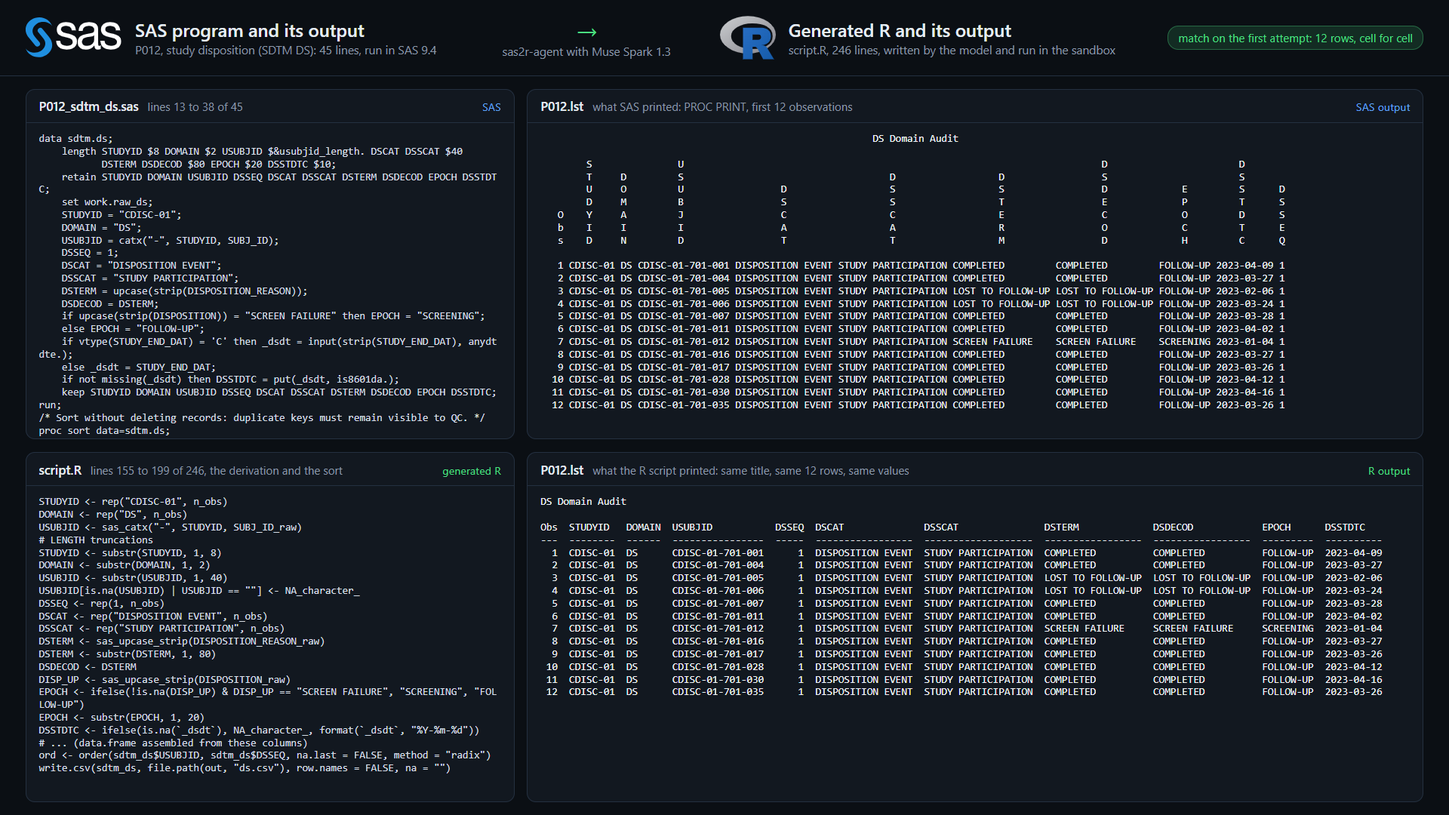
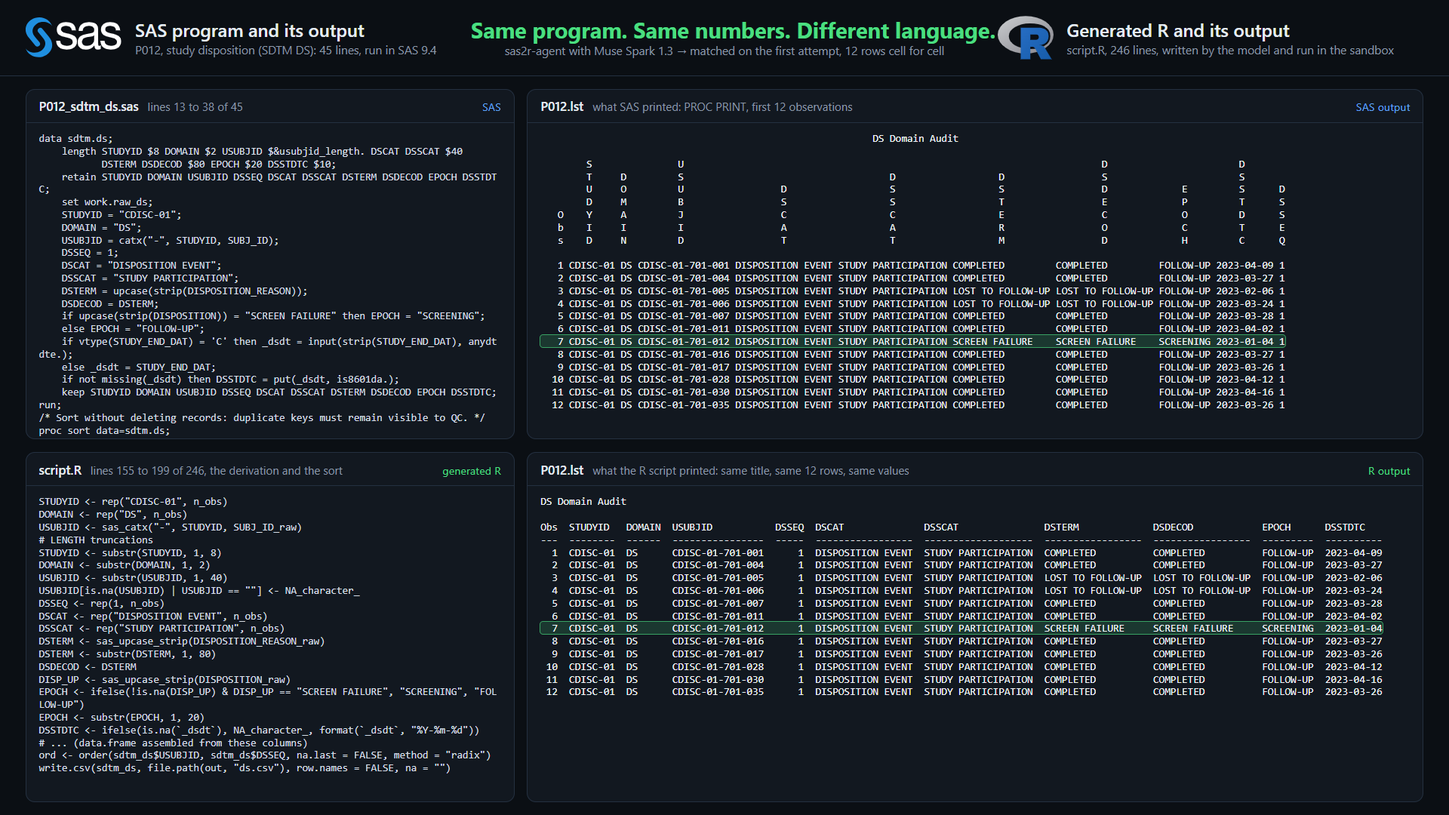
Review fixes: per-program cost in run output, 'passed every check' wording, opening overlay, P036 repair still, end card
Claude-Session: https://claude.ai/code/session_01KvXKbV2yUgGbFLyG5GdHhj

Changed region(s): [[0.3125, 0.0, 1.0, 0.0917], [0.375, 0.7639, 0.9688, 0.7944], [0.375, 0.3972, 0.9062, 0.4278]]

diff --git a/docs/demo_opening.html b/docs/demo_opening.html
@@ -4,7 +4,9 @@
 :root{--bg:#0b0f14;--panel:#121820;--line:#243040;--ink:#e6edf3;--mute:#8b98a8;--green:#4ade80;--amber:#fbbf24;--blue:#60a5fa}
 *{box-sizing:border-box}html,body{margin:0;width:1600px;height:900px;overflow:hidden;background:var(--bg);color:var(--ink);font-family:"Segoe UI",Inter,system-ui,sans-serif}
 .top{height:84px;display:flex;align-items:center;gap:22px;padding:0 28px;border-bottom:1px solid var(--line)}
-.side{display:flex;align-items:center;gap:14px;width:520px}.mid{min-width:250px;white-space:nowrap}.side b{font-size:20px;font-weight:600}.side span{display:block;font-size:13px;color:var(--mute)}
+.side{display:flex;align-items:center;gap:14px;width:470px}.mid{min-width:560px;white-space:nowrap}
+.mid .big{font-size:24px;font-weight:700;color:var(--green);line-height:1.15}
+mark{background:rgba(74,222,128,.16);color:#f0f4f8;outline:1.5px solid rgba(74,222,128,.7);border-radius:3px}.side b{font-size:20px;font-weight:600}.side span{display:block;font-size:13px;color:var(--mute)}
 .logo.sas{height:44px;width:auto}.logo.r{height:48px;width:auto}
 .mid{flex:1;text-align:center}.mid .arrow{font-size:30px;color:var(--green);line-height:1}.mid .who{font-size:13px;color:var(--mute)}
 .pill{font-size:12.5px;padding:4px 11px;border-radius:12px;background:rgba(74,222,128,.14);color:var(--green);border:1px solid rgba(74,222,128,.35);white-space:nowrap}
@@ -19,9 +21,8 @@ pre{margin:0;padding:10px 14px;font:11.5px/14px Consolas,"Cascadia Mono",monospa
 </style></head><body>
 <div class="top">
   <div class="side"><svg viewBox="0 0 129.25 53.07" class="logo sas"><path fill="#1f8fe0" d="M 18.46875,0 C 16.638866,-0.041377236 14.748438,0.1725 12.8125,0.65625 C 3.86,2.8925 -6.16125,14.40875 4.78125,27.6875 L 11.3125,35.59375 L 13.15625,37.84375 C 14.39375,39.315 16.41875,39.28875 17.90625,38.0625 C 19.40125,36.829998 19.82625,34.80875 18.59375,33.3125 C 18.592173,33.310397 18.071121,32.679752 17.84375,32.40625 L 17.875,32.40625 C 17.402936,31.838361 17.300473,31.743127 16.8125,31.15625 C 14.448752,28.313409 11.75,25.03125 11.75,25.03125 C 6.9987503,19.265 9.11875,12.14125 15.5625,8.09375 C 21.24,4.5275001 31.65875,5.80125 35.25,11.65625 C 32.988202,4.9805465 26.398246,0.17930136 18.46875,0 z M 19.78125,13.9375 C 18.937031,13.90875 18.055625,14.230625 17.3125,14.84375 C 15.815001,16.0775 15.39375,18.10125 16.625,19.59375 C 16.627499,19.597501 16.77625,19.7825 17.03125,20.09375 C 19.863614,23.496657 23.625,28.0625 23.625,28.0625 C 28.3775,33.82875 26.25625,40.92125 19.8125,44.96875 C 14.136251,48.53375 3.71625,47.2575 0.125,41.40625 C 2.90875,49.618751 12.23875,54.9875 22.5625,52.40625 C 31.5175,50.166248 41.53625,38.6825 30.59375,25.40625 L 22.9375,16.15625 L 22.0625,15.0625 C 21.44375,14.326875 20.625469,13.96625 19.78125,13.9375 z"/><path fill="#ffffff" d="M 53.53125,6.3125 C 47.8625,6.3125 41.374998,9.2362506 41.375,16.28125 C 41.375,22.9875 46.708752,24.869999 52,26.15625 C 57.355,27.4425 62.656249,28.187498 62.65625,32.65625 C 62.65625,37.05875 58.121251,37.875002 54.78125,37.875 C 50.3725,37.875 46.218751,36.27125 46.03125,31.125 L 40.6875,31.125 C 41,39.79375 47.161249,42.968749 54.46875,42.96875 C 61.085,42.96875 68.343749,40.27125 68.34375,31.9375 C 68.34375,25.16375 63.041251,23.25625 57.6875,21.96875 C 52.7125,20.6825 47.031249,20.00625 47.03125,15.875 C 47.03125,12.3525 50.75625,11.40625 53.96875,11.40625 C 57.49875,11.40625 61.151251,12.810001 61.53125,17.28125 L 66.875,17.28125 C 66.435,8.74625 60.712498,6.3125001 53.53125,6.3125 z M 84.40625,6.3125 C 77.159998,6.3125001 70.90625,9.3625 70.59375,18.03125 L 75.9375,18.03125 C 76.190003,12.883749 79.5275,11.40625 84.0625,11.40625 C 87.466253,11.40625 91.3125,12.20625 91.3125,17.21875 C 91.312501,21.553749 86.2975,21.155 80.375,22.375 C 74.833751,23.526251 69.34375,25.23 69.34375,33.15625 C 69.343748,40.133748 74.20125,42.96875 80.125,42.96875 C 84.656249,42.968749 88.6025,41.255 91.5625,37.53125 C 91.562499,41.322498 93.3525,42.96875 96.125,42.96875 C 97.823751,42.968749 98.9925,42.60875 99.9375,42 L 99.9375,37.53125 C 99.244997,37.802498 98.7525,37.875 98.3125,37.875 C 96.612501,37.875002 96.625,36.68 96.625,33.96875 L 96.625,15.9375 C 96.624998,7.7424996 90.265,6.3125 84.40625,6.3125 z M 112.40625,6.3125 C 106.7375,6.3125 100.25,9.2362506 100.25,16.28125 C 100.25,22.9875 105.61625,24.869999 110.90625,26.15625 C 116.2625,27.4425 121.5625,28.187498 121.5625,32.65625 C 121.5625,37.05875 117.02625,37.875002 113.6875,37.875 C 109.2775,37.875 105.125,36.27125 104.9375,31.125 L 99.5625,31.125 C 99.87625,39.79375 106.06875,42.968749 113.375,42.96875 C 119.9875,42.96875 127.21875,40.27125 127.21875,31.9375 C 127.21875,25.16375 121.91625,23.25625 116.5625,21.96875 C 111.58875,20.6825 105.9375,20.00625 105.9375,15.875 C 105.9375,12.3525 109.63125,11.40625 112.84375,11.40625 C 116.37,11.40625 120.025,12.810001 120.40625,17.28125 L 125.78125,17.28125 C 125.3425,8.74625 119.59,6.3125001 112.40625,6.3125 z M 91.25,24.0625 L 91.25,29.96875 C 91.25,33.1525 88.36875,37.875 81.3125,37.875 C 78.040002,37.875002 75,36.51375 75,32.71875 C 75.000003,28.452501 78.0375,27.115 81.5625,26.4375 C 85.15375,25.761251 89.1725,25.6875 91.25,24.0625 z"/></svg><div><b>SAS program and its output</b><span>P012, study disposition (SDTM DS): 45 lines, run in SAS 9.4</span></div></div>
-  <div class="mid"><div class="arrow">&#8594;</div><div class="who">sas2r-agent with Muse Spark 1.3</div></div>
+  <div class="mid"><div class="big">Same program. Same numbers. Different language.</div><div class="who">sas2r-agent with Muse Spark 1.3 &#8594; matched on the first attempt, 12 rows cell for cell</div></div>
   <div class="side"><svg viewBox="0 0 724 561" class="logo r"><defs><linearGradient id="g1" x1="0" x2="1" y1="0" y2="1"><stop offset="0" stop-color="#cbced0"/><stop offset="1" stop-color="#84838b"/></linearGradient><linearGradient id="g2" x1="0" x2="1" y1="0" y2="1"><stop offset="0" stop-color="#276dc3"/><stop offset="1" stop-color="#165caa"/></linearGradient></defs><path d="M361.453,485.937 C162.329,485.937 0.906,377.828 0.906,244.469 C0.906,111.109 162.329,3.000 361.453,3.000 C560.578,3.000 722.000,111.109 722.000,244.469 C722.000,377.828 560.578,485.937 361.453,485.937 ZM416.641,97.406 C265.289,97.406 142.594,171.314 142.594,262.484 C142.594,353.654 265.289,427.562 416.641,427.562 C567.992,427.562 679.687,377.033 679.687,262.484 C679.687,147.971 567.992,97.406 416.641,97.406 Z" fill="url(#g1)" fill-rule="evenodd"/><path d="M550.000,377.000 C550.000,377.000 571.822,383.585 584.500,390.000 C588.899,392.226 596.510,396.668 602.000,402.500 C607.378,408.212 610.000,414.000 610.000,414.000 L696.000,559.000 L557.000,559.062 L492.000,437.000 C492.000,437.000 478.690,414.131 470.500,407.500 C463.668,401.969 460.755,400.000 454.000,400.000 C449.298,400.000 420.974,400.000 420.974,400.000 L421.000,558.974 L298.000,559.026 L298.000,152.938 L545.000,152.938 C545.000,152.938 657.500,154.967 657.500,262.000 C657.500,369.033 550.000,377.000 550.000,377.000 ZM496.500,241.024 L422.037,240.976 L422.000,310.026 L496.500,310.002 C496.500,310.002 531.000,309.895 531.000,274.877 C531.000,239.155 496.500,241.024 496.500,241.024 Z" fill="url(#g2)" fill-rule="evenodd"/></svg><div><b>Generated R and its output</b><span>script.R, 246 lines, written by the model and run in the sandbox</span></div></div>
-  <span class="pill">match on the first attempt: 12 rows, cell for cell</span>
 </div>
 <div class="grid">
   <div class="cell sas"><h2>P012_sdtm_ds.sas <span>lines 13 to 38 of 45</span><span class="k" style="color:var(--blue)">SAS</span></h2><pre>data sdtm.ds;
@@ -62,7 +63,7 @@ proc sort data=sdtm.ds;</pre></div>
    4 CDISC-01 DS CDISC-01-701-006 DISPOSITION EVENT STUDY PARTICIPATION LOST TO FOLLOW-UP LOST TO FOLLOW-UP FOLLOW-UP 2023-03-24 1
    5 CDISC-01 DS CDISC-01-701-007 DISPOSITION EVENT STUDY PARTICIPATION COMPLETED         COMPLETED         FOLLOW-UP 2023-03-28 1
    6 CDISC-01 DS CDISC-01-701-011 DISPOSITION EVENT STUDY PARTICIPATION COMPLETED         COMPLETED         FOLLOW-UP 2023-04-02 1
-   7 CDISC-01 DS CDISC-01-701-012 DISPOSITION EVENT STUDY PARTICIPATION SCREEN FAILURE    SCREEN FAILURE    SCREENING 2023-01-04 1
+<mark>   7 CDISC-01 DS CDISC-01-701-012 DISPOSITION EVENT STUDY PARTICIPATION SCREEN FAILURE    SCREEN FAILURE    SCREENING 2023-01-04 1</mark>
    8 CDISC-01 DS CDISC-01-701-016 DISPOSITION EVENT STUDY PARTICIPATION COMPLETED         COMPLETED         FOLLOW-UP 2023-03-27 1
    9 CDISC-01 DS CDISC-01-701-017 DISPOSITION EVENT STUDY PARTICIPATION COMPLETED         COMPLETED         FOLLOW-UP 2023-03-26 1
   10 CDISC-01 DS CDISC-01-701-028 DISPOSITION EVENT STUDY PARTICIPATION COMPLETED         COMPLETED         FOLLOW-UP 2023-04-12 1
@@ -99,7 +100,7 @@ Obs  STUDYID   DOMAIN  USUBJID           DSSEQ  DSCAT              DSSCAT       
   4  CDISC-01  DS      CDISC-01-701-006      1  DISPOSITION EVENT  STUDY PARTICIPATION  LOST TO FOLLOW-UP  LOST TO FOLLOW-UP  FOLLOW-UP  2023-03-24
   5  CDISC-01  DS      CDISC-01-701-007      1  DISPOSITION EVENT  STUDY PARTICIPATION  COMPLETED          COMPLETED          FOLLOW-UP  2023-03-28
   6  CDISC-01  DS      CDISC-01-701-011      1  DISPOSITION EVENT  STUDY PARTICIPATION  COMPLETED          COMPLETED          FOLLOW-UP  2023-04-02
-  7  CDISC-01  DS      CDISC-01-701-012      1  DISPOSITION EVENT  STUDY PARTICIPATION  SCREEN FAILURE     SCREEN FAILURE     SCREENING  2023-01-04
+<mark>  7  CDISC-01  DS      CDISC-01-701-012      1  DISPOSITION EVENT  STUDY PARTICIPATION  SCREEN FAILURE     SCREEN FAILURE     SCREENING  2023-01-04</mark>
   8  CDISC-01  DS      CDISC-01-701-016      1  DISPOSITION EVENT  STUDY PARTICIPATION  COMPLETED          COMPLETED          FOLLOW-UP  2023-03-27
   9  CDISC-01  DS      CDISC-01-701-017      1  DISPOSITION EVENT  STUDY PARTICIPATION  COMPLETED          COMPLETED          FOLLOW-UP  2023-03-26
  10  CDISC-01  DS      CDISC-01-701-028      1  DISPOSITION EVENT  STUDY PARTICIPATION  COMPLETED          COMPLETED          FOLLOW-UP  2023-04-12

diff --git a/dashboard/index.html b/dashboard/index.html
@@ -78,7 +78,7 @@ a { color: var(--meta); }
 <body>
 <main>
   <h1>SAS to R translation leaderboard</h1>
-  <p class="sub">An agent translates each of 100 clinical SAS programs to R, runs the R in a sandbox, compares every output against the SAS reference and repairs up to three times. A program counts as <b>equivalent</b> only when every dataset, table, listing and figure matched.</p>
+  <p class="sub">An agent translates each of 100 clinical SAS programs to R, runs the R in a sandbox, compares every output against the SAS reference and repairs up to three times. A program counts as <b>passed</b> only when every check passed: datasets cell for cell, tables and listings by every number, figures by being produced. Figures are not compared pixel for pixel.</p>
 
   <div class="tiles" id="tiles"></div>
 
@@ -90,20 +90,20 @@ a { color: var(--meta); }
   </div>
 
   <div class="card">
-    <h2 style="margin-top:0" id="sec-bars">Equivalent translations per model</h2>
+    <h2 style="margin-top:0" id="sec-bars">Programs that passed every check, per model</h2>
     <div id="bars"></div>
     <div class="legend"><span style="--c:var(--meta)">Meta model</span><span style="--c:var(--baseline)">baseline (not a Meta model)</span></div>
   </div>
 
   <h2 id="sec-scorecard">Scorecard</h2>
   <div class="card scroll"><table id="board"><thead><tr>
-    <th class="l">model</th><th class="l">prompt</th><th>programs</th><th>ran</th><th>all outputs</th><th>equivalent</th><th>mean attempts</th><th>mean sec</th><th>list $/M in / out</th><th>cost</th><th>$ / program</th><th>$ / equivalent</th>
+    <th class="l">model</th><th class="l">prompt</th><th>programs</th><th>ran</th><th>all outputs</th><th>passed</th><th>mean attempts</th><th>mean sec</th><th>list $/M in / out</th><th>cost</th><th>$ / program</th><th>$ / passed</th>
   </tr></thead><tbody></tbody></table>
-  <p class="foot" style="margin-top:10px">Costs apply each vendor's list price per million tokens (reasoning tokens billed as output) to the tokens the runs actually used. Hackathon credits that paid for the runs are not reflected. "$ / equivalent" is the price of one translation that fully matched SAS, so it penalises models that fail cheaply.</p></div>
+  <p class="foot" style="margin-top:10px">Costs apply each vendor's list price per million tokens (reasoning tokens billed as output) to the tokens the runs actually used. Hackathon credits that paid for the runs are not reflected. "$ / passed" is the price of one translation that passed every check, so it penalises models that fail cheaply.</p></div>
 
   <h2 id="sec-grid">Every program, every model</h2>
   <div class="card">
-    <div class="legend" style="margin:0 0 10px"><span style="--c:var(--ok)">equivalent</span><span style="--c:var(--warn)">ran, score ≥ 0.9</span><span style="--c:var(--bad)">ran, score &lt; 0.9 or failed</span><span style="--c:var(--none)">not run</span></div>
+    <div class="legend" style="margin:0 0 10px"><span style="--c:var(--ok)">passed every check</span><span style="--c:var(--warn)">ran, score ≥ 0.9</span><span style="--c:var(--bad)">ran, score &lt; 0.9 or failed</span><span style="--c:var(--none)">not run</span></div>
     <div class="grid-wrap"><div class="pgrid" id="pgrid"></div></div>
     <p class="foot" style="margin-top:8px">Click a cell to see the generated R, the comparison and the provenance record for that program and model.</p>
   </div>
@@ -153,10 +153,10 @@ a { color: var(--meta); }
     }
     const t = [
       ["programs in benchmark", nprog, "SAS reference outputs frozen and hashed"],
-      bestMeta ? ["best Meta row", pct(bestMeta[1].equivalent_pct), label(bestMeta[0])] : null,
-      bestBase ? ["best baseline", pct(bestBase[1].equivalent_pct), label(bestBase[0])] : null,
+      bestMeta ? ["best Meta row: passed every check", pct(bestMeta[1].equivalent_pct), label(bestMeta[0])] : null,
+      bestBase ? ["best baseline: passed every check", pct(bestBase[1].equivalent_pct), label(bestBase[0])] : null,
       onlyMeta ? ["passed by Meta, missed by the baseline", onlyMeta.length, onlyMeta.join(", ") || "none"] : null,
-      cheapest ? ["cheapest per equivalent, rows ≥ 80%", "$" + fmt(cheapest[1].cost_per_equivalent_usd, 3), label(cheapest[0])] : null,
+      cheapest ? ["cheapest per passed program, rows ≥ 80%", "$" + fmt(cheapest[1].cost_per_equivalent_usd, 3), label(cheapest[0])] : null,
     ].filter(Boolean);
     $("#tiles").innerHTML = t.map(x => `<div class="card tile"><div class="k">${x[0]}</div><div class="v">${x[1]}</div><div class="d">${x[2]}</div></div>`).join("");
   }
@@ -165,13 +165,13 @@ a { color: var(--meta); }
     const rows = visible().map(p => [p, summary(p)]).sort((a, b) => b[1].equivalent_pct - a[1].equivalent_pct);
     const W = Math.min(1180, $("#bars").clientWidth || 900), lw = 300, rh = 30, H = rows.length * rh + 28;
     const x = v => lw + (v / 100) * (W - lw - 60);
-    let s = `<svg width="${W}" height="${H}" role="img" aria-label="Equivalent translations per model">`;
+    let s = `<svg width="${W}" height="${H}" role="img" aria-label="Programs that passed every check, per model">`;
     [0, 25, 50, 75, 100].forEach(v => { s += `<line class="grid" x1="${x(v)}" x2="${x(v)}" y1="0" y2="${H - 24}"/><text class="lbl" x="${x(v)}" y="${H - 6}" text-anchor="middle">${v}%</text>`; });
     rows.forEach(([p, o], i) => {
       const y = i * rh + 4, c = roleOf(p) === "meta" ? "var(--meta)" : "var(--baseline)";
       const w = Math.max(0, x(o.equivalent_pct) - x(0));
       s += `<text x="${lw - 10}" y="${y + 17}" text-anchor="end">${label(p)}</text>`;
-      s += `<rect x="${x(0)}" y="${y + 4}" width="${w}" height="${rh - 12}" rx="4" fill="${c}" data-p="${p}"><title>${label(p)}: ${pct(o.equivalent_pct)} equivalent of ${o.programs} programs</title></rect>`;
+      s += `<rect x="${x(0)}" y="${y + 4}" width="${w}" height="${rh - 12}" rx="4" fill="${c}" data-p="${p}"><title>${label(p)}: ${pct(o.equivalent_pct)} passed every check, of ${o.programs} programs</title></rect>`;
       s += `<text x="${x(o.equivalent_pct) + 6}" y="${y + 17}">${pct(o.equivalent_pct)}<tspan class="lbl"> of ${o.programs}</tspan></text>`;
     });
     s += `<line class="ax" x1="${x(0)}" x2="${x(0)}" y1="0" y2="${H - 24}"/></svg>`;

diff --git a/docs/demo_repair.html b/docs/demo_repair.html
@@ -1,0 +1,62 @@
+<!doctype html>
+<html lang="en"><head><meta charset="utf-8"><title>P036: miss, then repair</title>
+<style>
+:root{--bg:#0b0f14;--panel:#121820;--line:#243040;--ink:#e6edf3;--mute:#8b98a8;--green:#4ade80;--amber:#fbbf24;--red:#f87171}
+*{box-sizing:border-box}html,body{margin:0;width:1600px;height:900px;overflow:hidden;background:var(--bg);color:var(--ink);font-family:"Segoe UI",Inter,system-ui,sans-serif}
+.top{height:84px;display:flex;align-items:center;gap:18px;padding:0 36px;border-bottom:1px solid var(--line)}
+.top h1{font-size:26px;font-weight:600;margin:0}.top span{color:var(--mute);font-size:15px}
+.cols{display:grid;grid-template-columns:1fr 150px 1fr;gap:0;padding:28px 36px;height:816px;align-items:stretch}
+.card{background:var(--panel);border:1px solid var(--line);border-radius:14px;padding:22px 26px;display:flex;flex-direction:column;gap:14px}
+.card h2{margin:0;font-size:22px;display:flex;align-items:center;gap:12px}.n{display:inline-flex;width:34px;height:34px;border-radius:50%;align-items:center;justify-content:center;font-size:17px;font-weight:700;color:#0b0f14}
+.n.a{background:var(--amber)}.n.g{background:var(--green)}
+pre{margin:0;font:16px/1.5 Consolas,"Cascadia Mono",monospace;color:#d7dee7;white-space:pre-wrap;background:#0e1319;border:1px solid var(--line);border-radius:10px;padding:14px 16px}
+.k{color:#7cc4ff}.warn{color:var(--amber)}.ok{color:var(--green)}.red{color:var(--red)}
+.big{font-size:44px;font-weight:700;line-height:1.05}.big small{display:block;font-size:15px;font-weight:400;color:var(--mute);margin-top:4px}
+.mid{display:flex;flex-direction:column;align-items:center;justify-content:center;gap:10px;color:var(--amber);text-align:center;font-size:14px}
+.mid .arr{font-size:60px;line-height:1}
+.miss{display:flex;flex-wrap:wrap;gap:8px}.miss b{font:600 17px Consolas,monospace;background:rgba(251,191,36,.12);border:1px solid rgba(251,191,36,.45);color:var(--amber);border-radius:6px;padding:3px 9px}
+.foot{color:var(--mute);font-size:14px;margin-top:auto}
+</style></head><body>
+<div class="top"><h1>P036: the comparator finds the misses, the model repairs them</h1><span>real run, Muse Spark 1.3, prompt v3, runs/muse-spark@v3/P036</span></div>
+<div class="cols">
+  <div class="card">
+    <h2><span class="n a">1</span> Attempt 1: R ran, but ten numbers are missing</h2>
+    <div class="big warn">96 of 106<small>numbers in the SAS listing P036.lst found in the R output · recall 0.906, below the 0.95 bar</small></div>
+    <pre><span class="k">$</span> compare P036 attempt_1
+  P036.lst:      <span class="warn">mismatch</span>  recall 0.906  (96 of 106 found)
+  sasgraph.png:  <span class="ok">ok</span>        produced
+  Target16.pdf:  <span class="ok">ok</span>        recall 1.000  (41 of 41 found)</pre>
+    <div>Missing from the R output, sent back to the model with the R log:</div>
+    <div class="miss"><b>0.0021</b><b>0.999</b><b>0.0012</b><b>0.9728</b><b>0.0029</b><b>0.056</b><b>…</b></div>
+    <div>Where they come from, in the SAS listing:</div>
+    <pre>Statistics for Table of TRTPN by n
+Statistic                     DF       Value      Prob
+<span class="warn">Chi-Square                     2      0.0021    0.9990
+Likelihood Ratio Chi-Square    2      0.0021    0.9990
+Mantel-Haenszel Chi-Square     1      0.0012    0.9728
+Phi Coefficient                       0.0029
+Contingency Coefficient               0.0029
+Cramer's V                            0.0029</span></pre>
+    <div class="foot">Cause: the first script left out the PROC FREQ chi-square statistics block. The listing's other 96 numbers were right.</div>
+  </div>
+  <div class="mid"><div class="arr">&#8594;</div><div>differences and<br>the R log go back<br>to Muse Spark 1.3</div></div>
+  <div class="card">
+    <h2><span class="n g">2</span> Attempt 2: the repaired script matches</h2>
+    <div class="big ok">106 of 106<small>every number in the SAS listing found · recall 1.000 · figure produced · PDF 41 of 41</small></div>
+    <pre><span class="k">$</span> compare P036 attempt_2
+  P036.lst:      <span class="ok">ok</span>        recall 1.000  (106 of 106 found)
+  sasgraph.png:  <span class="ok">ok</span>        produced
+  Target16.pdf:  <span class="ok">ok</span>        recall 1.000  (41 of 41 found)
+<span class="ok">P036: equivalent=True  score=1.000  iters=2</span>  tokens=15474/27729  128s  cost=$0.137</pre>
+    <div>What the repaired script added, and what it now prints:</div>
+    <pre><span class="k">+</span> fmt_prob4 &lt;- function(x) sapply(x, function(v) {
+<span class="k">+</span>   if (v &lt; 0.0001) return("&lt;.0001")
+<span class="k">+</span>   sprintf("%.4f", round_half_up(v, 4)) })   <span class="ok"># SAS rounds half away from zero</span>
+<span class="ok">Chi-Square                     2        0.0021       0.9990
+Likelihood Ratio Chi-Square    2        0.0021       0.9990
+Mantel-Haenszel Chi-Square     1        0.0012       0.9728
+Phi Coefficient                         0.0029</span></pre>
+    <div class="foot">Both attempts are kept in runs/muse-spark@v3/P036: script.R, the R log, every output, compare.json and provenance.json.</div>
+  </div>
+</div>
+</body></html>

diff --git a/docs/demo_flow.html b/docs/demo_flow.html
@@ -50,7 +50,7 @@ svg.wires{position:absolute;inset:0;width:100%;height:100%}
 <div class="node on" style="left:1144px;top:160px"><svg class="ic" viewBox="0 0 24 24" fill="none" stroke="#e6edf3" stroke-width="1.6" stroke-linecap="round"><path d="M10 14a4 4 0 005.7 0l2.6-2.6a4 4 0 00-5.7-5.7L11.5 7"/><path d="M14 10a4 4 0 00-5.7 0l-2.6 2.6a4 4 0 005.7 5.7l1.1-1.1"/></svg><div class="badge"><svg viewBox="0 0 24 24" fill="none" stroke="#fff" stroke-width="3.5"><path d="M5 12l5 5 9-10"/></svg></div></div>
 <div class="lab" style="left:1144px;top:230px"><b>Provenance ledger</b><span>hashes of every attempt,<br>chained, append-only</span></div>
 <div class="node on" style="left:1144px;top:400px"><svg class="ic" viewBox="0 0 24 24" fill="none" stroke="#4ade80" stroke-width="1.8" stroke-linecap="round"><path d="M4 20V10M10 20V4M16 20v-8M22 20H2"/></svg><div class="badge"><svg viewBox="0 0 24 24" fill="none" stroke="#fff" stroke-width="3.5"><path d="M5 12l5 5 9-10"/></svg></div></div>
-<div class="lab" style="left:1144px;top:470px"><b>Leaderboard</b><span>equivalent or not,<br>cost per matched program</span></div>
+<div class="lab" style="left:1144px;top:470px"><b>Leaderboard</b><span>passed or not,<br>cost per passed program</span></div>
 <div class="tag" style="left:1000px;top:120px">equivalent</div>
 <div class="tag amb" style="left:470px;top:66px">differences and the R log go back to the model: repair, up to 3 tries</div>
 <div class="tag" style="left:40px;top:300px;color:#f97316;border-color:rgba(249,115,22,.3)">SAS program</div>
@@ -65,12 +65,12 @@ svg.wires{position:absolute;inset:0;width:100%;height:100%}
 </table></div>
 </div>
 <div class="side">
-<div class="card"><h3>Muse Spark 1.3 · prompt v3</h3><div class="big">94 / 100</div><div class="sub">programs reproduced, strict recut</div></div>
+<div class="card"><h3>Muse Spark 1.3 · prompt v3</h3><div class="big">94 / 100</div><div class="sub">passed every check, strict recut</div></div>
 <div class="card"><h3>Checks</h3>
 <div class="kv"><span>Datasets, cell for cell</span><b class="g">37 / 39</b></div>
 <div class="kv"><span>Tables and listings, values</span><b>recall ≥ 0.95</b></div>
 <div class="kv"><span>Figures</span><b>produced</b></div>
-<div class="kv"><span>Cost per matched program</span><b class="g">$0.09</b></div></div>
+<div class="kv"><span>Cost per passed program</span><b class="g">$0.09</b></div></div>
 <div class="card"><h3>Every attempt records</h3>
 <div class="kv"><span>prompt, answer, script</span><b>SHA-256</b></div>
 <div class="kv"><span>every output, R log</span><b>SHA-256</b></div>

diff --git a/docs/demo_closing.html b/docs/demo_closing.html
@@ -1,0 +1,29 @@
+<!doctype html>
+<html lang="en"><head><meta charset="utf-8"><title>sas2r-agent</title>
+<style>
+:root{--bg:#0b0f14;--panel:#121820;--line:#243040;--ink:#e6edf3;--mute:#8b98a8;--green:#4ade80}
+*{box-sizing:border-box}html,body{margin:0;width:1600px;height:900px;overflow:hidden;background:radial-gradient(1200px 700px at 50% 40%,#131a24 0%,#0b0f14 70%);color:var(--ink);font-family:"Segoe UI",Inter,system-ui,sans-serif}
+.wrap{height:900px;display:flex;flex-direction:column;align-items:center;justify-content:center;gap:26px;text-align:center}
+.eyebrow{font-size:15px;letter-spacing:.14em;text-transform:uppercase;color:var(--mute)}
+h1{margin:0;font-size:84px;font-weight:700;letter-spacing:-.02em}
+.steps{font-size:30px;color:#c9d3df;display:flex;gap:26px;align-items:center}.steps span{color:var(--green)}
+.tiles{display:flex;gap:18px;margin-top:8px}
+.tile{background:var(--panel);border:1px solid var(--line);border-radius:14px;padding:20px 30px;min-width:250px}
+.tile b{display:block;font-size:44px;font-weight:700;color:var(--green);line-height:1}.tile span{display:block;margin-top:8px;font-size:15px;color:var(--mute)}
+.line{font-size:28px;max-width:1200px;line-height:1.35;margin-top:10px}
+.url{font-size:20px;color:var(--mute);font-family:Consolas,monospace;margin-top:6px}
+.small{font-size:14px;color:var(--mute)}
+</style></head><body><div class="wrap">
+  <div class="eyebrow">Meta Global AI Developer Hackathon · built with Muse Spark 1.3</div>
+  <h1>sas2r-agent</h1>
+  <div class="steps">Translate <span>&#8594;</span> Run <span>&#8594;</span> Compare <span>&#8594;</span> Repair</div>
+  <div class="tiles">
+    <div class="tile"><b>100</b><span>public clinical SAS programs, run in real SAS</span></div>
+    <div class="tile"><b>94</b><span>passed every check, Muse Spark 1.3</span></div>
+    <div class="tile"><b>37 / 39</b><span>datasets matched cell for cell</span></div>
+    <div class="tile"><b>$0.09</b><span>per program that passed</span></div>
+  </div>
+  <div class="line">It doesn't just generate R code. It tests whether R reproduces SAS,<br>and uses the evidence to fix what doesn't.</div>
+  <div class="url">github.com/tomasantony/sas2r-agent</div>
+  <div class="small">Every generated script, every comparison and a hash-chained provenance ledger are in the repo.</div>
+</div></body></html>

diff --git a/docs/demo_terminal.html b/docs/demo_terminal.html
@@ -1,15 +1,15 @@
 <!doctype html><html><head><meta charset="utf-8"><title>sas2r-agent run</title>
-<style>html,body{margin:0;background:#0f1117;color:#d6dbe3;font:17px/1.55 Consolas,"Cascadia Mono",monospace}
+<style>html,body{margin:0;background:#0f1117;color:#d6dbe3;font:16px/1.6 Consolas,"Cascadia Mono",monospace}
 pre{margin:0;padding:28px 36px;white-space:pre-wrap} .p{color:#7cc4ff} .ok{color:#5ad17a} .warn{color:#f2c94c}</style></head>
 <body><pre><span class=p>$</span> python -m agent run --provider muse-spark --ids P009 P036 --tag demo
-muse-spark: 2 programs to run; spent so far $30.08 (3,843,801 in / 5,947,578 out); budget $40.00
-P009: translated=True runs=True all_outputs=True <span class=ok>equivalent=True</span> score=1.000 iters=1 tokens=3797/13043 73s  spent=$30.14
+muse-spark: 2 programs to run; provider total so far $30.08 over all its runs (3,843,801 in / 5,947,578 out); budget $40.00
+P009: translated=True runs=True all_outputs=True <span class=ok>equivalent=True</span> score=1.000 iters=1 tokens=3797/13043 73s  cost=$0.060
 P036 attempt 1: R ran (rc 0); comparison with the SAS reference:
-  P036.lst: mismatch  recall 0.906  (96 of 106 SAS numbers found); missing e.g. 0.0021, 0.999, 0.0012, 0.9728, 0.0029, 0.056
+  P036.lst: <span class=warn>mismatch  recall 0.906  (96 of 106 SAS numbers found); missing e.g. 0.0021, 0.999, 0.0012, 0.9728, 0.0029, 0.056</span>
   sasgraph.png: ok  score 1.000
-  Target16.pdf: ok  recall 1.000  (41 of 41 SAS numbers found); missing e.g. 
+  Target16.pdf: ok  recall 1.000  (41 of 41 SAS numbers found)
 P036 attempt 2: repair prompt sent with the differences above ...
-P036: translated=True runs=True all_outputs=True <span class=ok>equivalent=True</span> score=1.000 iters=2 tokens=15474/27729 128s  spent=$21.37
+P036: translated=True runs=True all_outputs=True <span class=ok>equivalent=True</span> score=1.000 iters=2 tokens=15474/27729 128s  cost=$0.137
 
 <span class=p>$</span> python -m agent verify
 reference files: 600, changed or missing: 0

diff --git a/agent/cli.py b/agent/cli.py
@@ -96,7 +96,7 @@ def cmd_run(args):
     if args.skip_done:
         ids = [i for i in ids if not (RUNS_DIR / run_name / i / "report.json").exists()]
     tin, tout, spent = provider_spend(prov.name)
-    print(f"{prov.name}: {len(ids)} programs to run; spent so far ${spent:.2f} ({tin:,} in / {tout:,} out); "
+    print(f"{prov.name}: {len(ids)} programs to run; provider total so far ${spent:.2f} over all its runs ({tin:,} in / {tout:,} out); "
           f"budget ${args.budget_usd:.2f}" if args.budget_usd else f"{prov.name}: {len(ids)} programs to run", flush=True)
     for pid in ids:
         if args.budget_usd:
@@ -105,10 +105,11 @@ def cmd_run(args):
                 print(f"BUDGET STOP: estimated ${spent:.2f} >= ${args.budget_usd:.2f} before {pid}", flush=True)
                 break
         rep = run_program(pid, prov, max_iterations=args.max_iters, tag=args.tag or "")
-        _, _, spent = provider_spend(prov.name)
+        from .config import estimate_cost_usd
+        cost = estimate_cost_usd(prov.name, rep.input_tokens, rep.output_tokens)
         print(f"{pid}: translated={rep.translated} runs={rep.runs} all_outputs={rep.produced_all} "
               f"equivalent={rep.equivalent} score={rep.best_score:.3f} iters={rep.iterations} "
-              f"tokens={rep.input_tokens}/{rep.output_tokens} {rep.seconds:.0f}s  spent=${spent:.2f}", flush=True)
+              f"tokens={rep.input_tokens}/{rep.output_tokens} {rep.seconds:.0f}s  cost=${cost:.3f}", flush=True)
 
 
 def cmd_selftest(args):

diff --git a/docs/demo_narration.md b/docs/demo_narration.md
@@ -7,12 +7,12 @@ Word for word, with the visual shown for each line. Generated from `demo_narrati
 | s01 | docs/demo_opening.html, SAS program and output beside the generated R and its output | I translate SAS programs to R for clinical trials. A trial's datasets, tables, listings and figures all come out of SAS programs, and the industry is moving to R. Each program has to be rewritten and checked against the original, because a script that runs cleanly can still produce the wrong numbers. That checking is thirty to fifty percent of the programming effort, and this year the FDA started asking sponsors for this kind of cross-validation. |
 | s02 | dashboard top, bars | So I built sas2r-agent, with Meta's Muse Spark 1.3. It writes the R, runs it, finds the numbers that differ, and repairs its own translation. This is the leaderboard, over one hundred programs. |
 | s03 | docs/demo_flow.html, the loop as a node graph | One loop, four roles. The context builder reads the SAS program, its inputs and outputs. Muse Spark 1.3, through the Meta Model API, writes one R script. A sandbox with no network runs it. The comparator checks the outputs against the SAS reference and sends the differences back. Up to three tries. |
-| s04 | terminal page, run output | Two programs. The first matches SAS straight away. The second doesn't: the comparator lists the missing values, sends them back, and the second attempt matches. |
+| s04 | terminal page, run output, then docs/demo_repair.html (the P036 miss and the repair) | Two programs. The first matches SAS straight away. The second doesn't: the comparator lists the missing values, sends them back, and the second attempt matches. |
 | s04b | docs/demo_compare.html | This is what a match looks like. The SAS figure on the left, the figure from the generated R on the right: same curves, same numbers at risk. Below, a statistics table, identical to four decimals. |
-| s05 | terminal page, verify output | Every attempt leaves a provenance trail: hashes of the prompt, the answer, the script, every output and the SAS reference, chained in an append-only ledger. Verify recomputes the chain. |
-| s06 | dashboard bars | The benchmark is one hundred public SAS programs, run in real SAS. Muse Spark 1.3 reproduces ninety-four. On the thirty-nine that produce datasets it matches thirty-seven cell for cell, the same as Claude Opus, and it passes three programs Claude misses, at half the cost. |
-| s07 | scorecard, $ per equivalent column | The metric that matters is cost per matched program, not cost per call. Muse Spark is about ten cents. Muse Spark Open, the open weights, scores eighty-five on the same harness, so a sponsor can run this inside its own firewall. |
+| s05 | terminal page, verify output | Every attempt leaves a provenance trail: hashes of the prompt, the answer, the script, every output and the SAS reference, chained in an append-only ledger. |
+| s06 | dashboard bars | The benchmark is one hundred public SAS programs, run in real SAS. Muse Spark 1.3 passes every check on ninety-four. On the thirty-nine that produce datasets it matches thirty-seven cell for cell, the same as Claude Opus, and it passes three programs Claude misses, at half the cost. |
+| s07 | scorecard, $ per passed column | The metric that matters is cost per matched program, not cost per call. Muse Spark is about ten cents. Muse Spark Open, the open weights, scores eighty-five on the same harness, so a sponsor can run this inside its own firewall. |
 | s08 | program grid, then P079 under prompt v1 | The agent learns from its own misses. Here's a listing the first prompt got wrong: only four of three hundred and twelve numbers turned up in the R output. |
-| s09 | P079 under prompt v3 | The analysis of those misses became prompt version two: eighty-six to ninety-five percent. The remaining misses became version three. Each version is its own row, so the improvement is measured, not claimed. |
+| s09 | P079 under prompt v3 | The analysis of those misses became prompt version two: eighty-six to ninety-five percent. Version three fixed the five that were left and lost six others: ninety-four, within the swing between two runs. Each version is its own row, so the change is measured, not claimed. |
 | s10 | generated R in the detail panel | Any cell opens the generated R, the comparison and the provenance record. All fifteen hundred scripts are in the repo, one folder per attempt. |
-| s11 | README top | Two limits: figures are checked for being produced, not compared, and one sweep varies by about five programs. The benchmark is my earlier work; the agent was built in the window. sas2r-agent doesn't just generate R code. It tests whether R reproduces SAS, and uses the evidence to fix what doesn't. |
+| s11 | README top, then docs/demo_closing.html (end card) | One limit: figures are checked for being produced, not compared. The benchmark is my earlier work; the agent was built in the window. sas2r-agent doesn't just generate R code. It tests whether R reproduces SAS, and uses the evidence to fix what doesn't. |
